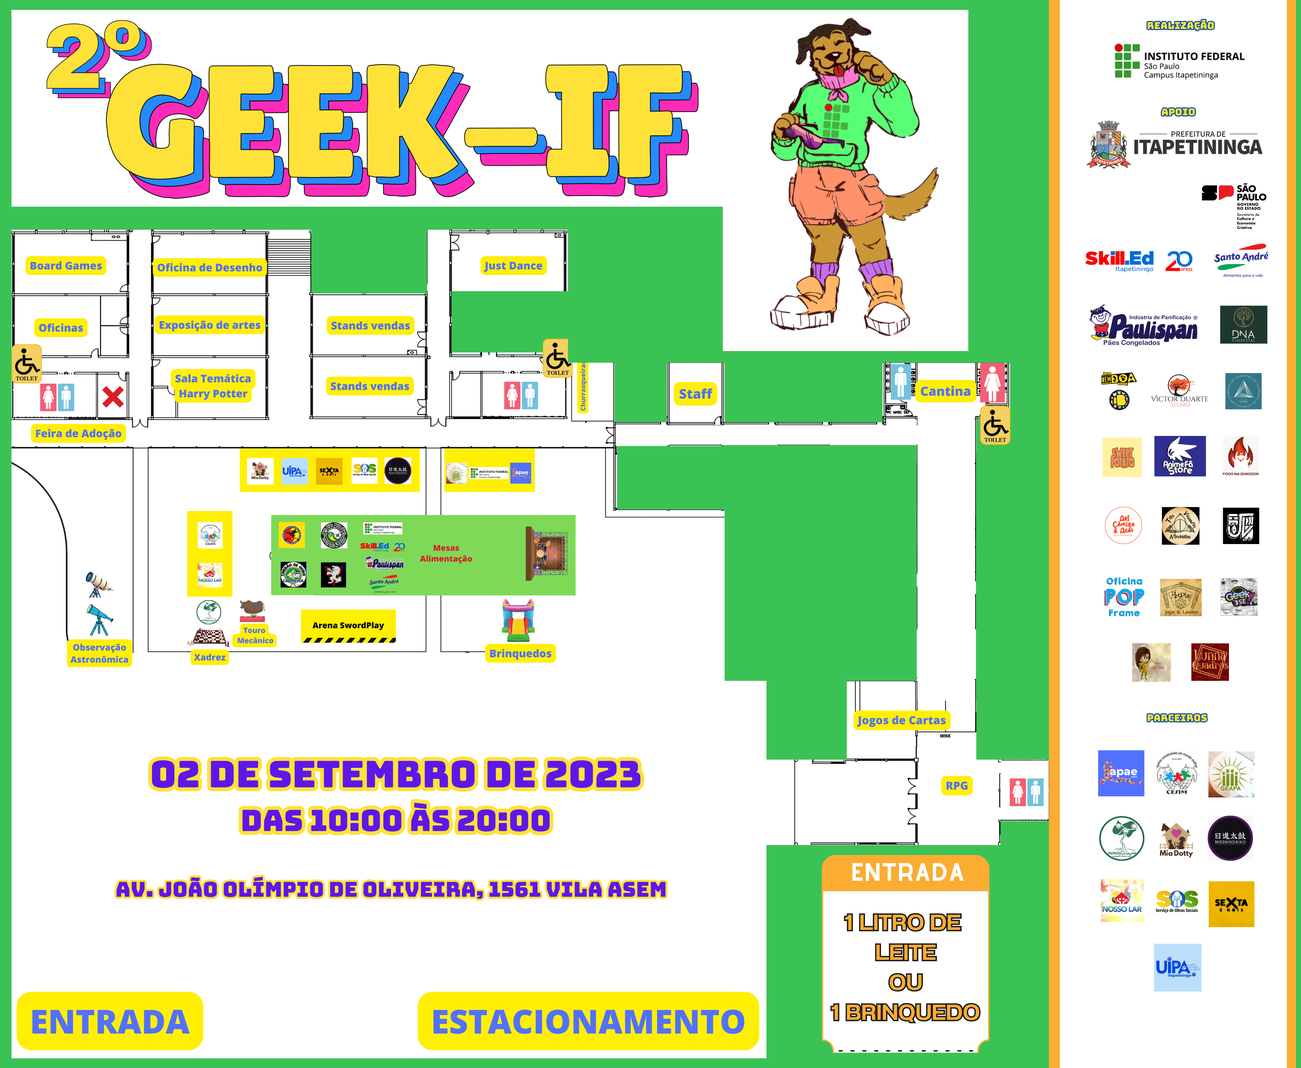
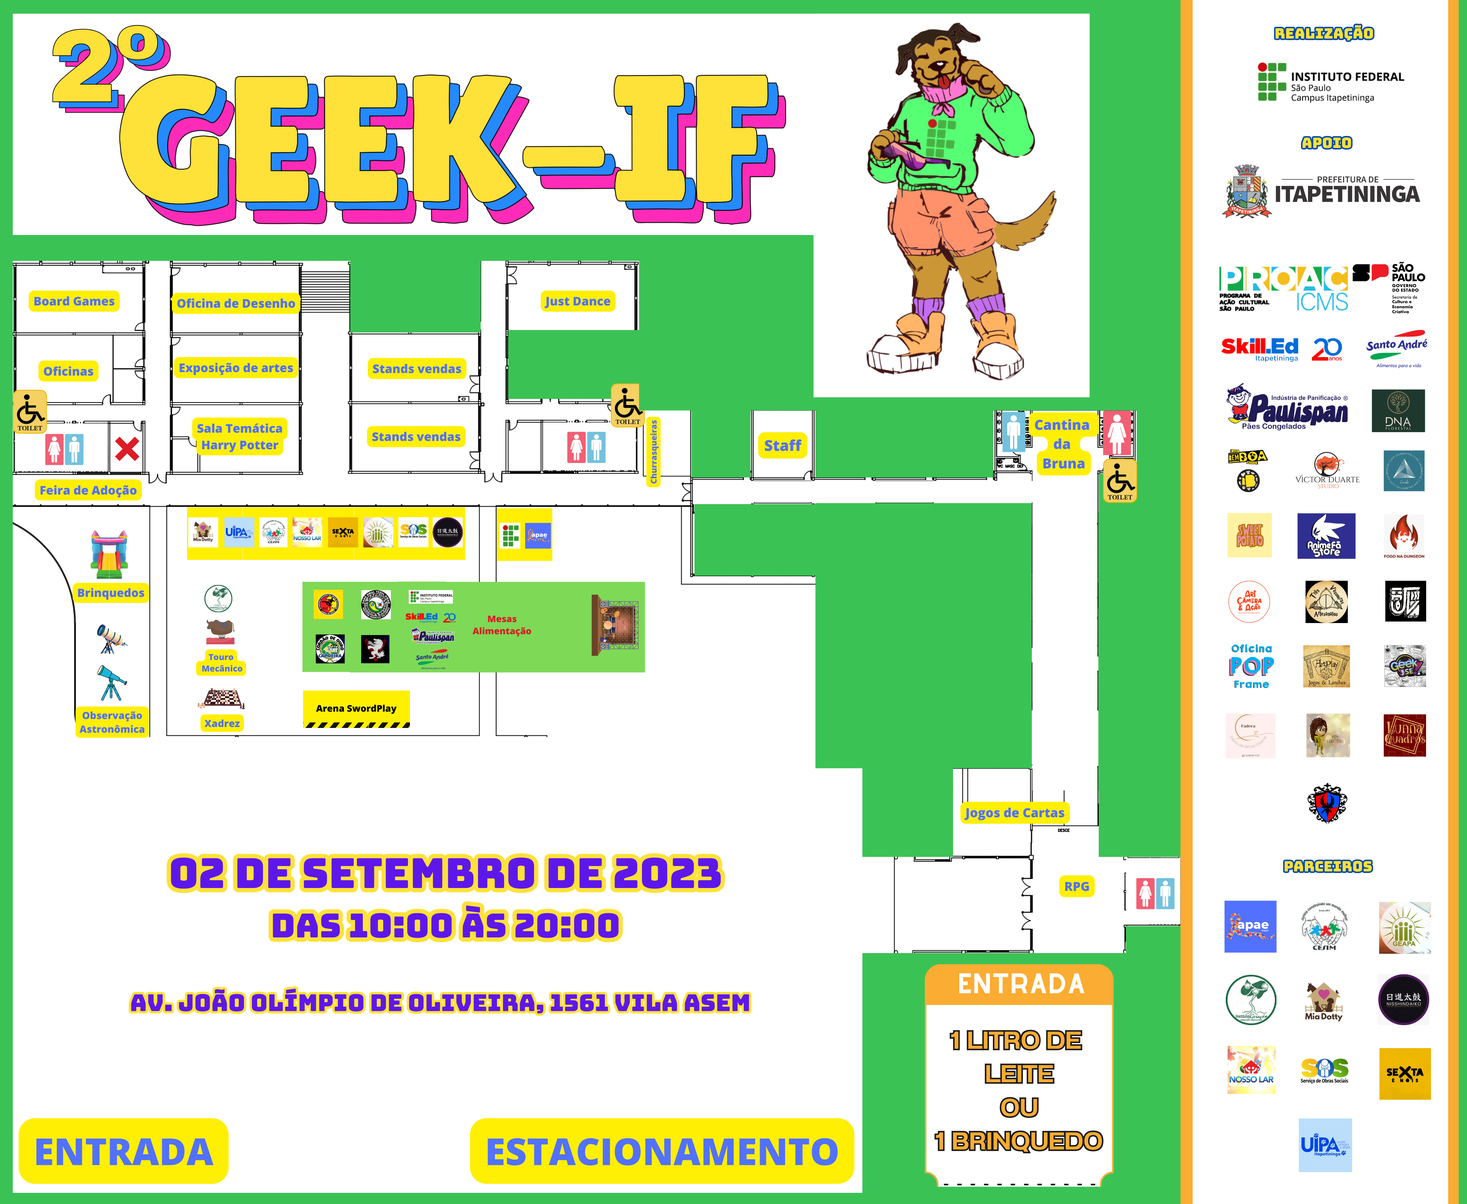
Atualizações geek if, correção das páginas de salas, adições na pagina do yugoh, troca do mapa do evento

diff --git a/pages/salas/yugioh.html b/pages/salas/yugioh.html
@@ -59,11 +59,11 @@
                     <label for="checkbox-games" class="label-sub-menu">Salas</label>
                     <svg viewBox="0 0 512 512" fill="yellow"><path d="M98 190.06l139.78 163.12a24 24 0 0036.44 0L414 190.06c13.34-15.57 2.28-39.62-18.22-39.62h-279.6c-20.5 0-31.56 24.05-18.18 39.62z"/></svg>
                     <ul class="sub-menu sub-menu-games">
-                        <li><a href="/pages/salasdejogos/magic.html">Magic The Gathering</a></li>
-                        <li><a href="/pages/salasdejogos/tabuleiro.html">Tabuleiro</a></li>
-                        <li><a href="/pages/salasdejogos/rpg.html">RPG</a></li>
-                        <li><a href="/pages/salasdejogos/pokemon.html">Pokemon</a></li>
-                        <li><a href="/pages/salasdejogos/yugioh.html">Yu Gi Oh</a></li>
+                        <li><a href="/pages/salas/magic.html">Magic The Gathering</a></li>
+                        <li><a href="/pages/salas/tabuleiro.html">Tabuleiro</a></li>
+                        <li><a href="/pages/salas/rpg.html">RPG</a></li>
+                        <li><a href="/pages/salas/pokemon.html">Pokemon</a></li>
+                        <li><a href="/pages/salas/yugioh.html">Yu Gi Oh</a></li>
                         <li><a href="/pages/salas/harrypotter.html">Harry Potter</a></li>
                     </ul>
                 </li>
@@ -79,20 +79,21 @@
         <div class="about-attractions">
             <h1>Yu Gi Oh</h1>
             <p>Yu-Gi-Oh! é um universo emocionante baseado em um jogo de cartas jogado com Monstros, Feitiços e Armadilhas. O Yu-Gi-Oh! franquia inclui séries de mangá, séries de televisão, vários videogames, o Yu-Gi-Oh! JOGO DE CARTAS ILUSTRADAS e muito mais! Este pequeno guia irá ajudá-lo a se familiarizar com um pouco do que Yu-Gi-Oh! tem a oferecer.</p>
+            <p>O Yu-Gi-Oh! um jogo de cartas colecionáveis desenvolvido e publicado pela Konami. É baseado no jogo fictício de Duel Monsters criado pelo artista de mangá Kazuki Takahashi, que aparece em partes da franquia de mangá e anime Yu-Gi-Oh!</p>
         </div>
         <!-- Fotos -->
-        <!-- <div class="pages-photos">
+        <div class="pages-photos">
             <div class="photos">
                 <div class="photo-set">
                     <div class="photo-image">
-                        <img src="/imgs/Geek11.jpg" alt="Origami 1" loading="lazy">
+                        <img src="/imgs/yugioh-01.PNG" alt="Yu gi oh 1" loading="lazy">
                     </div>
                     <div class="photo-image">
-                        <img src="/imgs/Geek12.jpg" alt="Origami 2" loading="lazy">
+                        <img src="/imgs/yugioh-02.PNG" alt="Yu gi oh 2" loading="lazy">
                     </div>
                 </div>
             </div>
-        </div> -->
+        </div>
     </section>
     <!-- Rodapé -->
     <footer class="footer">

diff --git a/pages/campeonatos/cosplayadulto.html b/pages/campeonatos/cosplayadulto.html
@@ -60,11 +60,11 @@
                     <label for="checkbox-games" class="label-sub-menu">Salas</label>
                     <svg viewBox="0 0 512 512" fill="yellow"><path d="M98 190.06l139.78 163.12a24 24 0 0036.44 0L414 190.06c13.34-15.57 2.28-39.62-18.22-39.62h-279.6c-20.5 0-31.56 24.05-18.18 39.62z"/></svg>
                     <ul class="sub-menu sub-menu-games">
-                        <li><a href="/pages/salasdejogos/magic.html">Magic The Gathering</a></li>
-                        <li><a href="/pages/salasdejogos/tabuleiro.html">Tabuleiro</a></li>
-                        <li><a href="/pages/salasdejogos/rpg.html">RPG</a></li>
-                        <li><a href="/pages/salasdejogos/pokemon.html">Pokemon</a></li>
-                        <li><a href="/pages/salasdejogos/yugioh.html">Yu Gi Oh</a></li>
+                        <li><a href="/pages/salas/magic.html">Magic The Gathering</a></li>
+                        <li><a href="/pages/salas/tabuleiro.html">Tabuleiro</a></li>
+                        <li><a href="/pages/salas/rpg.html">RPG</a></li>
+                        <li><a href="/pages/salas/pokemon.html">Pokemon</a></li>
+                        <li><a href="/pages/salas/yugioh.html">Yu Gi Oh</a></li>
                         <li><a href="/pages/salas/harrypotter.html">Harry Potter</a></li>
                     </ul>
                 </li>
@@ -136,18 +136,18 @@
             <div class="photos">
                 <div class="photo-set">
                     <div class="photo-image">
-                        <img src="/imgs/galery/Geek_cosplay1.jpg" alt="Cosplay 1" loading="lazy">
+                        <img src="/imgs/galery/Geek_cosplay1.jpg" alt="Cosplay Adulto 1" loading="lazy">
                     </div>
                     <div class="photo-image">
-                        <img src="/imgs/galery/Geek_cosplay3.jpg" alt="Cosplay 2" loading="lazy">
+                        <img src="/imgs/galery/Geek_cosplay3.jpg" alt="Cosplay Adulto 2" loading="lazy">
                     </div>
                 </div>
                 <div class="photo-set">
                     <div class="photo-image">
-                        <img src="/imgs/galery/Geek_cosplay4.jpg" alt="Cosplay 3" loading="lazy">
+                        <img src="/imgs/galery/Geek_cosplay4.jpg" alt="Cosplay Adulto 3" loading="lazy">
                     </div>
                     <div class="photo-image">
-                        <img src="/imgs/galery/Geek_cosplay10.jpg" alt="Cosplay 4" loading="lazy">
+                        <img src="/imgs/galery/Geek_cosplay10.jpg" alt="Cosplay Adulto 4" loading="lazy">
                     </div>
                 </div>
             </div>

diff --git a/pages/campeonatos/cosplayinfantil.html b/pages/campeonatos/cosplayinfantil.html
@@ -59,11 +59,11 @@
                     <label for="checkbox-games" class="label-sub-menu">Salas</label>
                     <svg viewBox="0 0 512 512" fill="yellow"><path d="M98 190.06l139.78 163.12a24 24 0 0036.44 0L414 190.06c13.34-15.57 2.28-39.62-18.22-39.62h-279.6c-20.5 0-31.56 24.05-18.18 39.62z"/></svg>
                     <ul class="sub-menu sub-menu-games">
-                        <li><a href="/pages/salasdejogos/magic.html">Magic The Gathering</a></li>
-                        <li><a href="/pages/salasdejogos/tabuleiro.html">Tabuleiro</a></li>
-                        <li><a href="/pages/salasdejogos/rpg.html">RPG</a></li>
-                        <li><a href="/pages/salasdejogos/pokemon.html">Pokemon</a></li>
-                        <li><a href="/pages/salasdejogos/yugioh.html">Yu Gi Oh</a></li>
+                        <li><a href="/pages/salas/magic.html">Magic The Gathering</a></li>
+                        <li><a href="/pages/salas/tabuleiro.html">Tabuleiro</a></li>
+                        <li><a href="/pages/salas/rpg.html">RPG</a></li>
+                        <li><a href="/pages/salas/pokemon.html">Pokemon</a></li>
+                        <li><a href="/pages/salas/yugioh.html">Yu Gi Oh</a></li>
                         <li><a href="/pages/salas/harrypotter.html">Harry Potter</a></li>
                     </ul>
                 </li>
@@ -88,16 +88,16 @@
             <div class="photos">
                 <div class="photo-set">
                     <div class="photo-image">
-                        <img src="/imgs/galery/Geek_cosplay2.jpg" alt="Cosplay 2" loading="lazy">
+                        <img src="/imgs/galery/Geek_cosplay2.jpg" alt="Cosplay Infantil 1" loading="lazy">
                     </div>
                     <div class="photo-image">
-                        <img src="/imgs/Geek6.jpg" alt="Cosplay 1" loading="lazy">
+                        <img src="/imgs/Geek6.jpg" alt="Cosplay Infantil 2" loading="lazy">
                     </div>
                     <div class="photo-image">
-                        <img src="/imgs/galery/Geek_cosplay_itape7.jpg" alt="Cosplay 3" loading="lazy">
+                        <img src="/imgs/galery/Geek_cosplay_itape7.jpg" alt="Cosplay Infantil 3" loading="lazy">
                     </div>
                     <div class="photo-image">
-                        <img src="/imgs/galery/Geek_cosplay_itape4.jpg" alt="Cosplay 4" loading="lazy">
+                        <img src="/imgs/galery/Geek_cosplay_itape4.jpg" alt="Cosplay Infantil 4" loading="lazy">
                     </div>
                 </div>                
             </div>

diff --git a/pages/salas/harrypotter.html b/pages/salas/harrypotter.html
@@ -59,11 +59,11 @@
                     <label for="checkbox-games" class="label-sub-menu">Salas</label>
                     <svg viewBox="0 0 512 512" fill="yellow"><path d="M98 190.06l139.78 163.12a24 24 0 0036.44 0L414 190.06c13.34-15.57 2.28-39.62-18.22-39.62h-279.6c-20.5 0-31.56 24.05-18.18 39.62z"/></svg>
                     <ul class="sub-menu sub-menu-games">
-                        <li><a href="/pages/salasdejogos/magic.html">Magic The Gathering</a></li>
-                        <li><a href="/pages/salasdejogos/tabuleiro.html">Tabuleiro</a></li>
-                        <li><a href="/pages/salasdejogos/rpg.html">RPG</a></li>
-                        <li><a href="/pages/salasdejogos/pokemon.html">Pokemon</a></li>
-                        <li><a href="/pages/salasdejogos/yugioh.html">Yu Gi Oh</a></li>
+                        <li><a href="/pages/salas/magic.html">Magic The Gathering</a></li>
+                        <li><a href="/pages/salas/tabuleiro.html">Tabuleiro</a></li>
+                        <li><a href="/pages/salas/rpg.html">RPG</a></li>
+                        <li><a href="/pages/salas/pokemon.html">Pokemon</a></li>
+                        <li><a href="/pages/salas/yugioh.html">Yu Gi Oh</a></li>
                         <li><a href="/pages/salas/harrypotter.html">Harry Potter</a></li>
                     </ul>
                 </li>
@@ -79,7 +79,7 @@
         <div class="about-attractions">
             <h1>Sala Temática de Harry Potter</h1>
             <p>Os Pottermaniacos vão adorar a sala com a temática de Harry Potter. Com uma super exposição com os itens da saga, será possível interagir com os personagens do filme e provar guloseimas deliciosas, como os sapinhos de chocolate, bolo de aniversário e outros.</p>
-            <p class="info-p">Local: Gramado | Horário: Durante todo o evento. | Inscrições: não requer inscrição</p>
+            <p class="info-p">Horário: Durante todo o evento. | Inscrições: não requer inscrição</p>
         </div>
         <!-- Fotos -->
         <div class="pages-photos">

diff --git a/pages/timeline.html b/pages/timeline.html
@@ -59,11 +59,11 @@
                 <label for="checkbox-games" class="label-sub-menu">Salas</label>
                 <svg viewBox="0 0 512 512" fill="yellow"><path d="M98 190.06l139.78 163.12a24 24 0 0036.44 0L414 190.06c13.34-15.57 2.28-39.62-18.22-39.62h-279.6c-20.5 0-31.56 24.05-18.18 39.62z"/></svg>
                 <ul class="sub-menu sub-menu-games">
-                    <li><a href="/pages/salasdejogos/magic.html">Magic The Gathering</a></li>
-                    <li><a href="/pages/salasdejogos/tabuleiro.html">Tabuleiro</a></li>
-                    <li><a href="/pages/salasdejogos/rpg.html">RPG</a></li>
-                    <li><a href="/pages/salasdejogos/pokemon.html">Pokemon</a></li>
-                    <li><a href="/pages/salasdejogos/yugioh.html">Yu Gi Oh</a></li>
+                    <li><a href="/pages/salas/magic.html">Magic The Gathering</a></li>
+                    <li><a href="/pages/salas/tabuleiro.html">Tabuleiro</a></li>
+                    <li><a href="/pages/salas/rpg.html">RPG</a></li>
+                    <li><a href="/pages/salas/pokemon.html">Pokemon</a></li>
+                    <li><a href="/pages/salas/yugioh.html">Yu Gi Oh</a></li>
                     <li><a href="/pages/salas/harrypotter.html">Harry Potter</a></li>
                 </ul>
             </li>
@@ -78,8 +78,8 @@
  <section class="back-gradient">
   <h1>Cronograma</h1>
     <h2>Palco</h2>
-      <p>12:00 - Rock & Pop com Will Gomessa</p>
-      <p>12:30 - Apresentação de Taikô Nisshindaiko</p>
+      <p>12:00 - Apresentação de Taikô Nisshindaiko</p>
+      <p>12:30 - Rock & Pop com Will Gomessa</p>
       <p>13:00 - Apresentação de Piano com Daniel Duarte</p>
       <p>14:00 - Desfile de Cosplay Infantil</p>
       <p>14:30 - Banda Meia Boca</p>
@@ -98,8 +98,8 @@
     <h2>Campeonatos</h2>
       <p>14:00h - Desfile infantil</p>
       <p>14:30h - Just Dance</p>
-      <p>17:00h - Cosplay</p>
-      <p>17:20h - Cospobre</p>
+      <p>17:30h - Cosplay</p>
+      <p>18:00h - Cospobre</p>
  </section>
  <!-- Rodapé -->
  <footer class="footer">

diff --git a/pages/oficinas/hapkido.html b/pages/oficinas/hapkido.html
@@ -60,11 +60,11 @@
                     <label for="checkbox-games" class="label-sub-menu">Salas</label>
                     <svg viewBox="0 0 512 512" fill="yellow"><path d="M98 190.06l139.78 163.12a24 24 0 0036.44 0L414 190.06c13.34-15.57 2.28-39.62-18.22-39.62h-279.6c-20.5 0-31.56 24.05-18.18 39.62z"/></svg>
                     <ul class="sub-menu sub-menu-games">
-                        <li><a href="/pages/salasdejogos/magic.html">Magic The Gathering</a></li>
-                        <li><a href="/pages/salasdejogos/tabuleiro.html">Tabuleiro</a></li>
-                        <li><a href="/pages/salasdejogos/rpg.html">RPG</a></li>
-                        <li><a href="/pages/salasdejogos/pokemon.html">Pokemon</a></li>
-                        <li><a href="/pages/salasdejogos/yugioh.html">Yu Gi Oh</a></li>
+                        <li><a href="/pages/salas/magic.html">Magic The Gathering</a></li>
+                        <li><a href="/pages/salas/tabuleiro.html">Tabuleiro</a></li>
+                        <li><a href="/pages/salas/rpg.html">RPG</a></li>
+                        <li><a href="/pages/salas/pokemon.html">Pokemon</a></li>
+                        <li><a href="/pages/salas/yugioh.html">Yu Gi Oh</a></li>
                         <li><a href="/pages/salas/harrypotter.html">Harry Potter</a></li>
                     </ul>
                 </li>
@@ -87,10 +87,10 @@
             <div class="photos">
                 <div class="photo-set">
                     <div class="photo-image">
-                        <img src="/imgs/KungFu1.jpg" alt="Cosplay 1" loading="lazy">
+                        <img src="/imgs/KungFu1.jpg" alt="Hapkido 1" loading="lazy">
                     </div>
                     <div class="photo-image">
-                        <img src="/imgs/KungFu2.jpg" alt="Cosplay 2" loading="lazy">
+                        <img src="/imgs/KungFu2.jpg" alt="Hapkido 2" loading="lazy">
                     </div>
                   </div>
             </div>

diff --git a/pages/oficinas/kungfu.html b/pages/oficinas/kungfu.html
@@ -59,11 +59,11 @@
                     <label for="checkbox-games" class="label-sub-menu">Salas</label>
                     <svg viewBox="0 0 512 512" fill="yellow"><path d="M98 190.06l139.78 163.12a24 24 0 0036.44 0L414 190.06c13.34-15.57 2.28-39.62-18.22-39.62h-279.6c-20.5 0-31.56 24.05-18.18 39.62z"/></svg>
                     <ul class="sub-menu sub-menu-games">
-                        <li><a href="/pages/salasdejogos/magic.html">Magic The Gathering</a></li>
-                        <li><a href="/pages/salasdejogos/tabuleiro.html">Tabuleiro</a></li>
-                        <li><a href="/pages/salasdejogos/rpg.html">RPG</a></li>
-                        <li><a href="/pages/salasdejogos/pokemon.html">Pokemon</a></li>
-                        <li><a href="/pages/salasdejogos/yugioh.html">Yu Gi Oh</a></li>
+                        <li><a href="/pages/salas/magic.html">Magic The Gathering</a></li>
+                        <li><a href="/pages/salas/tabuleiro.html">Tabuleiro</a></li>
+                        <li><a href="/pages/salas/rpg.html">RPG</a></li>
+                        <li><a href="/pages/salas/pokemon.html">Pokemon</a></li>
+                        <li><a href="/pages/salas/yugioh.html">Yu Gi Oh</a></li>
                         <li><a href="/pages/salas/harrypotter.html">Harry Potter</a></li>
                     </ul>
                 </li>
@@ -86,10 +86,10 @@
             <div class="photos">
                 <div class="photo-set">
                     <div class="photo-image">
-                        <img src="/imgs/galery/Geek_karate1.jpg" alt="Cosplay 1">
+                        <img src="/imgs/galery/Geek_karate1.jpg" alt="Kung Fu 1">
                     </div>
                     <div class="photo-image">
-                        <img src="/imgs/galery/Geek_karate2.jpg" alt="Cosplay 2">
+                        <img src="/imgs/galery/Geek_karate2.jpg" alt="Kung Fu 2">
                     </div>
                 </div>
             </div>

diff --git a/pages/oficinas/desenho.html b/pages/oficinas/desenho.html
@@ -59,11 +59,11 @@
                     <label for="checkbox-games" class="label-sub-menu">Salas</label>
                     <svg viewBox="0 0 512 512" fill="yellow"><path d="M98 190.06l139.78 163.12a24 24 0 0036.44 0L414 190.06c13.34-15.57 2.28-39.62-18.22-39.62h-279.6c-20.5 0-31.56 24.05-18.18 39.62z"/></svg>
                     <ul class="sub-menu sub-menu-games">
-                        <li><a href="/pages/salasdejogos/magic.html">Magic The Gathering</a></li>
-                        <li><a href="/pages/salasdejogos/tabuleiro.html">Tabuleiro</a></li>
-                        <li><a href="/pages/salasdejogos/rpg.html">RPG</a></li>
-                        <li><a href="/pages/salasdejogos/pokemon.html">Pokemon</a></li>
-                        <li><a href="/pages/salasdejogos/yugioh.html">Yu Gi Oh</a></li>
+                        <li><a href="/pages/salas/magic.html">Magic The Gathering</a></li>
+                        <li><a href="/pages/salas/tabuleiro.html">Tabuleiro</a></li>
+                        <li><a href="/pages/salas/rpg.html">RPG</a></li>
+                        <li><a href="/pages/salas/pokemon.html">Pokemon</a></li>
+                        <li><a href="/pages/salas/yugioh.html">Yu Gi Oh</a></li>
                         <li><a href="/pages/salas/harrypotter.html">Harry Potter</a></li>
                     </ul>
                 </li>
@@ -92,7 +92,7 @@
                         <img src="/imgs/victorduarte.jpg" alt="Vicotr Duarte">
                     </div>
                     <div class="photo-image">
-                        <img src="/imgs/Geek7.jpg" alt="Desenho 2">
+                        <img src="/imgs/Geek7.jpg" alt="Desenho 1">
                     </div>
                 </div>
             </div>

diff --git a/index.html b/index.html
@@ -61,11 +61,11 @@
                     <label for="checkbox-games" class="label-sub-menu">Salas</label>
                     <svg viewBox="0 0 512 512" fill="yellow"><path d="M98 190.06l139.78 163.12a24 24 0 0036.44 0L414 190.06c13.34-15.57 2.28-39.62-18.22-39.62h-279.6c-20.5 0-31.56 24.05-18.18 39.62z"/></svg>
                     <ul class="sub-menu sub-menu-games">
-                        <li><a href="/pages/salasdejogos/magic.html">Magic The Gathering</a></li>
-                        <li><a href="/pages/salasdejogos/tabuleiro.html">Tabuleiro</a></li>
-                        <li><a href="/pages/salasdejogos/rpg.html">RPG</a></li>
-                        <li><a href="/pages/salasdejogos/pokemon.html">Pokemon</a></li>
-                        <li><a href="/pages/salasdejogos/yugioh.html">Yu Gi Oh</a></li>
+                        <li><a href="/pages/salas/magic.html">Magic The Gathering</a></li>
+                        <li><a href="/pages/salas/tabuleiro.html">Tabuleiro</a></li>
+                        <li><a href="/pages/salas/rpg.html">RPG</a></li>
+                        <li><a href="/pages/salas/pokemon.html">Pokemon</a></li>
+                        <li><a href="/pages/salas/yugioh.html">Yu Gi Oh</a></li>
                         <li><a href="/pages/salas/harrypotter.html">Harry Potter</a></li>
                     </ul>
                 </li>

diff --git a/pages/campeonatos/cospobre.html b/pages/campeonatos/cospobre.html
@@ -60,11 +60,11 @@
                     <label for="checkbox-games" class="label-sub-menu">Salas</label>
                     <svg viewBox="0 0 512 512" fill="yellow"><path d="M98 190.06l139.78 163.12a24 24 0 0036.44 0L414 190.06c13.34-15.57 2.28-39.62-18.22-39.62h-279.6c-20.5 0-31.56 24.05-18.18 39.62z"/></svg>
                     <ul class="sub-menu sub-menu-games">
-                        <li><a href="/pages/salasdejogos/magic.html">Magic The Gathering</a></li>
-                        <li><a href="/pages/salasdejogos/tabuleiro.html">Tabuleiro</a></li>
-                        <li><a href="/pages/salasdejogos/rpg.html">RPG</a></li>
-                        <li><a href="/pages/salasdejogos/pokemon.html">Pokemon</a></li>
-                        <li><a href="/pages/salasdejogos/yugioh.html">Yu Gi Oh</a></li>
+                        <li><a href="/pages/salas/magic.html">Magic The Gathering</a></li>
+                        <li><a href="/pages/salas/tabuleiro.html">Tabuleiro</a></li>
+                        <li><a href="/pages/salas/rpg.html">RPG</a></li>
+                        <li><a href="/pages/salas/pokemon.html">Pokemon</a></li>
+                        <li><a href="/pages/salas/yugioh.html">Yu Gi Oh</a></li>
                         <li><a href="/pages/salas/harrypotter.html">Harry Potter</a></li>
                     </ul>
                 </li>

diff --git a/pages/campeonatos/justdance.html b/pages/campeonatos/justdance.html
@@ -59,11 +59,11 @@
                     <label for="checkbox-games" class="label-sub-menu">Salas</label>
                     <svg viewBox="0 0 512 512" fill="yellow"><path d="M98 190.06l139.78 163.12a24 24 0 0036.44 0L414 190.06c13.34-15.57 2.28-39.62-18.22-39.62h-279.6c-20.5 0-31.56 24.05-18.18 39.62z"/></svg>
                     <ul class="sub-menu sub-menu-games">
-                        <li><a href="/pages/salasdejogos/magic.html">Magic The Gathering</a></li>
-                        <li><a href="/pages/salasdejogos/tabuleiro.html">Tabuleiro</a></li>
-                        <li><a href="/pages/salasdejogos/rpg.html">RPG</a></li>
-                        <li><a href="/pages/salasdejogos/pokemon.html">Pokemon</a></li>
-                        <li><a href="/pages/salasdejogos/yugioh.html">Yu Gi Oh</a></li>
+                        <li><a href="/pages/salas/magic.html">Magic The Gathering</a></li>
+                        <li><a href="/pages/salas/tabuleiro.html">Tabuleiro</a></li>
+                        <li><a href="/pages/salas/rpg.html">RPG</a></li>
+                        <li><a href="/pages/salas/pokemon.html">Pokemon</a></li>
+                        <li><a href="/pages/salas/yugioh.html">Yu Gi Oh</a></li>
                         <li><a href="/pages/salas/harrypotter.html">Harry Potter</a></li>
                     </ul>
                 </li>

diff --git a/pages/oficinas/capoeira.html b/pages/oficinas/capoeira.html
@@ -59,11 +59,11 @@
                     <label for="checkbox-games" class="label-sub-menu">Salas</label>
                     <svg viewBox="0 0 512 512" fill="yellow"><path d="M98 190.06l139.78 163.12a24 24 0 0036.44 0L414 190.06c13.34-15.57 2.28-39.62-18.22-39.62h-279.6c-20.5 0-31.56 24.05-18.18 39.62z"/></svg>
                     <ul class="sub-menu sub-menu-games">
-                        <li><a href="/pages/salasdejogos/magic.html">Magic The Gathering</a></li>
-                        <li><a href="/pages/salasdejogos/tabuleiro.html">Tabuleiro</a></li>
-                        <li><a href="/pages/salasdejogos/rpg.html">RPG</a></li>
-                        <li><a href="/pages/salasdejogos/pokemon.html">Pokemon</a></li>
-                        <li><a href="/pages/salasdejogos/yugioh.html">Yu Gi Oh</a></li>
+                        <li><a href="/pages/salas/magic.html">Magic The Gathering</a></li>
+                        <li><a href="/pages/salas/tabuleiro.html">Tabuleiro</a></li>
+                        <li><a href="/pages/salas/rpg.html">RPG</a></li>
+                        <li><a href="/pages/salas/pokemon.html">Pokemon</a></li>
+                        <li><a href="/pages/salas/yugioh.html">Yu Gi Oh</a></li>
                         <li><a href="/pages/salas/harrypotter.html">Harry Potter</a></li>
                     </ul>
                 </li>
